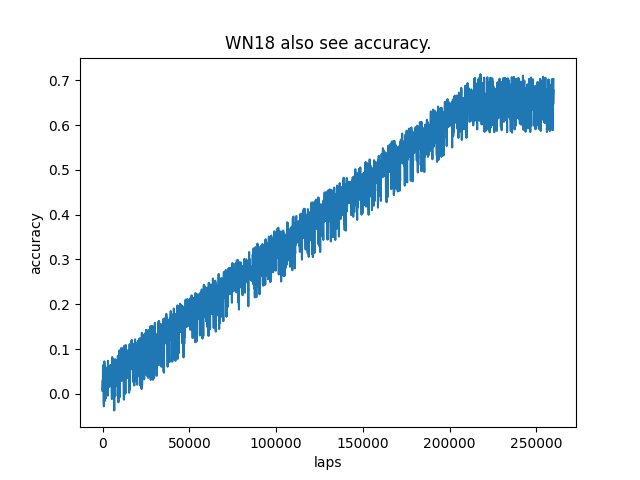
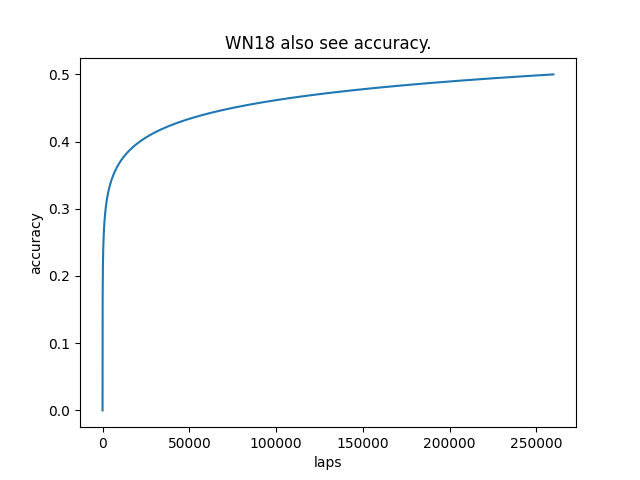
somethign about curves

diff --git a/plotters/results/Loss and Accuracy/Bezier.py b/plotters/results/Loss and Accuracy/Bezier.py
@@ -1,0 +1,95 @@
+"""Bezier, a module for creating Bezier curves.
+Version 1.1, from < BezierCurveFunction-v1.ipynb > on 2019-05-02
+"""
+
+import numpy as np
+
+__all__ = ["Bezier"]
+
+
+class Bezier():
+    def TwoPoints(t, P1, P2):
+        """
+        Returns a point between P1 and P2, parametised by t.
+        INPUTS:
+            t     float/int; a parameterisation.
+            P1    numpy array; a point.
+            P2    numpy array; a point.
+        OUTPUTS:
+            Q1    numpy array; a point.
+        """
+
+        if not isinstance(P1, np.ndarray) or not isinstance(P2, np.ndarray):
+            raise TypeError('Points must be an instance of the numpy.ndarray!')
+        if not isinstance(t, (int, float)):
+            raise TypeError('Parameter t must be an int or float!')
+
+        Q1 = (1 - t) * P1 + t * P2
+        return Q1
+
+    def Points(t, points):
+        """
+        Returns a list of points interpolated by the Bezier process
+        INPUTS:
+            t            float/int; a parameterisation.
+            points       list of numpy arrays; points.
+        OUTPUTS:
+            newpoints    list of numpy arrays; points.
+        """
+        newpoints = []
+        #print("points =", points, "\n")
+        for i1 in range(0, len(points) - 1):
+            #print("i1 =", i1)
+            #print("points[i1] =", points[i1])
+
+            newpoints += [Bezier.TwoPoints(t, points[i1], points[i1 + 1])]
+            #print("newpoints  =", newpoints, "\n")
+        return newpoints
+
+    def Point(t, points):
+        """
+        Returns a point interpolated by the Bezier process
+        INPUTS:
+            t            float/int; a parameterisation.
+            points       list of numpy arrays; points.
+        OUTPUTS:
+            newpoint     numpy array; a point.
+        """
+        newpoints = points
+        #print("newpoints = ", newpoints)
+        while len(newpoints) > 1:
+            newpoints = Bezier.Points(t, newpoints)
+            #print("newpoints in loop = ", newpoints)
+
+        #print("newpoints = ", newpoints)
+        #print("newpoints[0] = ", newpoints[0])
+        return newpoints[0]
+
+    def Curve(t_values, points):
+        """
+        Returns a point interpolated by the Bezier process
+        INPUTS:
+            t_values     list of floats/ints; a parameterisation.
+            points       list of numpy arrays; points.
+        OUTPUTS:
+            curve        list of numpy arrays; points.
+        """
+
+        if not hasattr(t_values, '__iter__'):
+            raise TypeError("`t_values` Must be an iterable of integers or floats, of length greater than 0 .")
+        if len(t_values) < 1:
+            raise TypeError("`t_values` Must be an iterable of integers or floats, of length greater than 0 .")
+        if not isinstance(t_values[0], (int, float)):
+            raise TypeError("`t_values` Must be an iterable of integers or floats, of length greater than 0 .")
+
+        curve = np.array([[0.0] * len(points[0])])
+        for t in t_values:
+            #print("curve                  \n", curve)
+            #print("Bezier.Point(t, points) \n", Bezier.Point(t, points))
+
+            curve = np.append(curve, [Bezier.Point(t, points)], axis=0)
+
+            #print("curve after            \n", curve, "\n--- --- --- --- --- --- ")
+        curve = np.delete(curve, 0, 0)
+        #print("curve final            \n", curve, "\n--- --- --- --- --- --- ")
+        return curve

diff --git a/plotters/results/Loss and Accuracy/LandAgen.py b/plotters/results/Loss and Accuracy/LandAgen.py
@@ -2,35 +2,52 @@ import matplotlib.pyplot as plt
 import numpy as np
 from pathlib import Path
 from random import random
+import math
+import Bezier
 
 curr_dir = Path(__file__).parent.resolve()
 
-acc_start_value = 0.0067354
+acc_start_value = 0.67354
 acc_end_value = 0.6466
 
-
-asintotic_percent = 0.56
 laps = 259800
+endraise_percent = 0.5
+stable_percent = 0.84
+x, y = range(laps), []
 
-values_acc = []
-values_loss = []
+bezier_start = laps/endraise_percent
+bezier_end = laps/stable_percent
 
-asintote_lap_start = laps*asintotic_percent
+raise_slope = 0.234
+end_slope = 0.034
 
-for i in range(0, laps, 150):
-    inc_dec_chance = 0.5 if i > asintote_lap_start else 0.25
+bez = Bezier.Bezier()
+# bezier curvature
+bez.Curve()
 
-    incline = random() > inc_dec_chance
-    inc_val = random() * acc_end_value/1500
+for i in range(laps):
+    if laps/i < endraise_percent: 
+        #steady raising almost linear
+        v = raise_slope*x[i]+0
+        y.append(v)
+        lastv = v
 
-    for n in range(150):
-        climb_mod = (i+n+1)/asintote_lap_start
-        v = acc_start_value + (acc_end_value*climb_mod) if i < asintote_lap_start else acc_end_value
-        v = v+inc_val*n if incline else v-inc_val*n
-        values_acc.append(v)
+    # elif laps/i > endraise_percent and laps/i < stable_percent: 
+
+    elif laps/i > stable_percent: 
+        #linear but raising super slow now.
+
+        v = raise_slope*x[i]+0
+        y.append(v)
+        lastv = v
+    
+#find bezier, points
+
+
+
 
 fig, ax = plt.subplots()
-ax.plot(range(laps), values_acc)
+ax.plot(x, y)
 ax.set(xlabel='laps', ylabel='accuracy',
        title='WN18 also see accuracy.')
 
